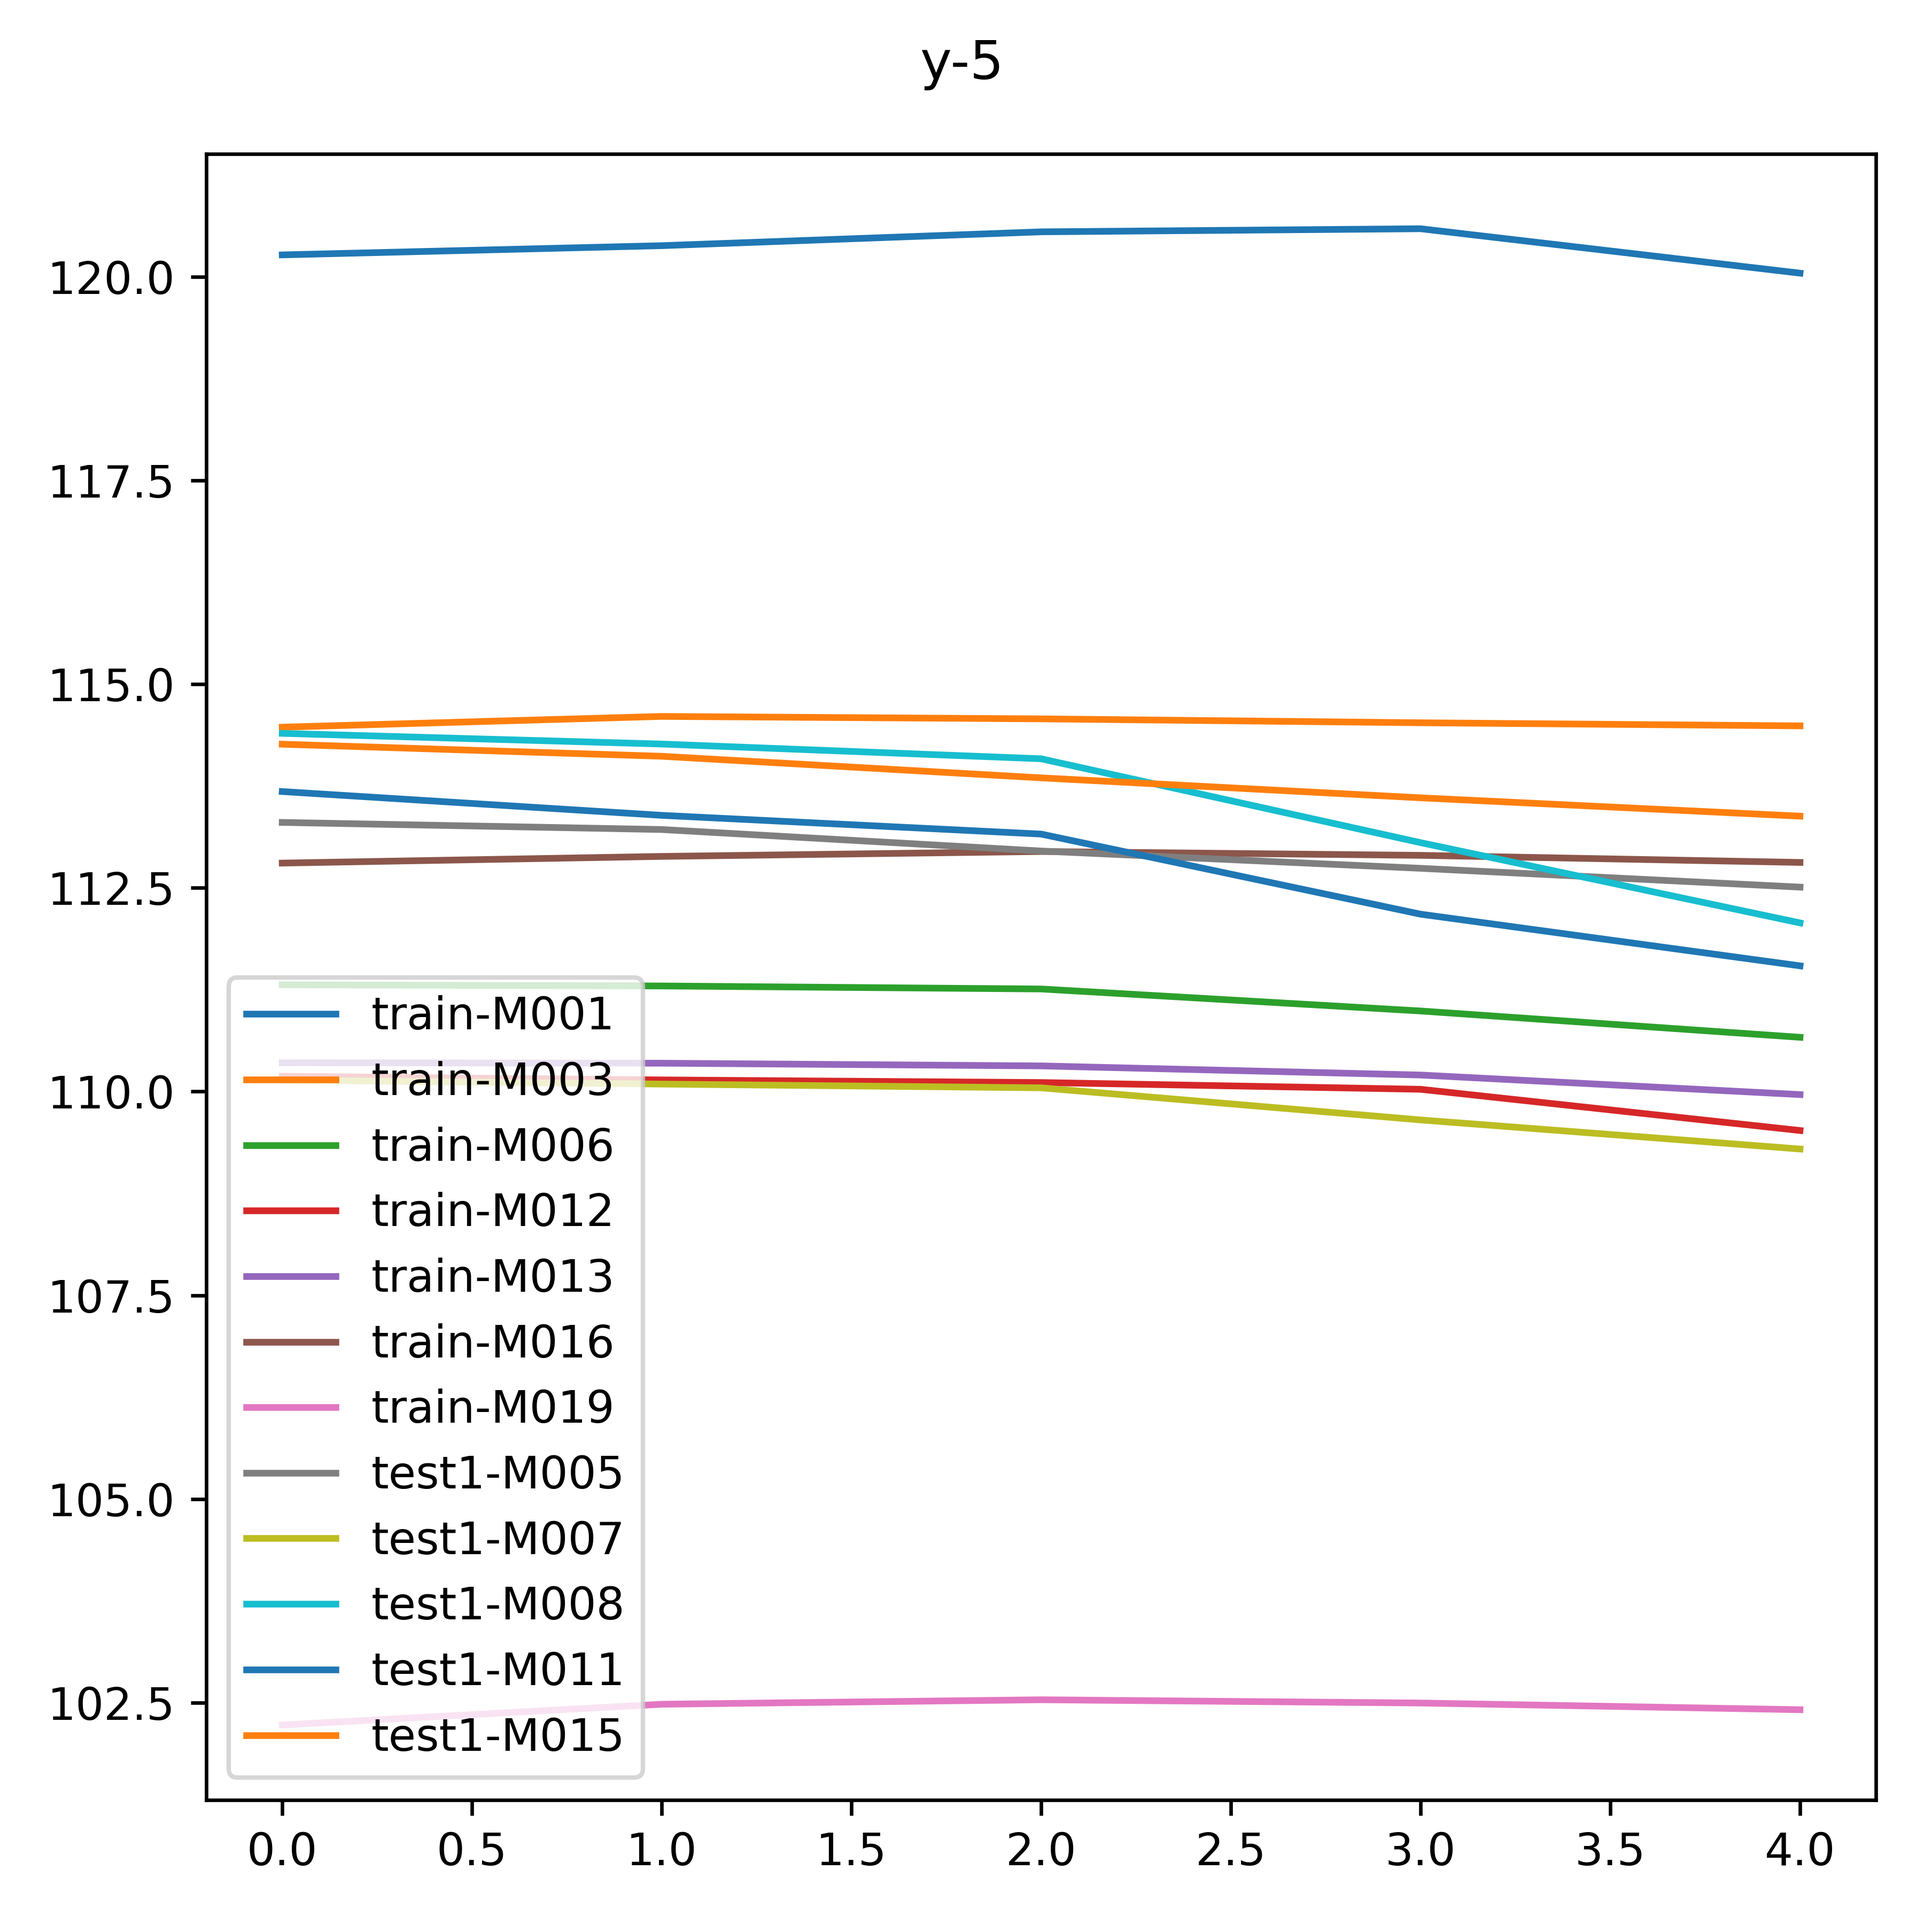
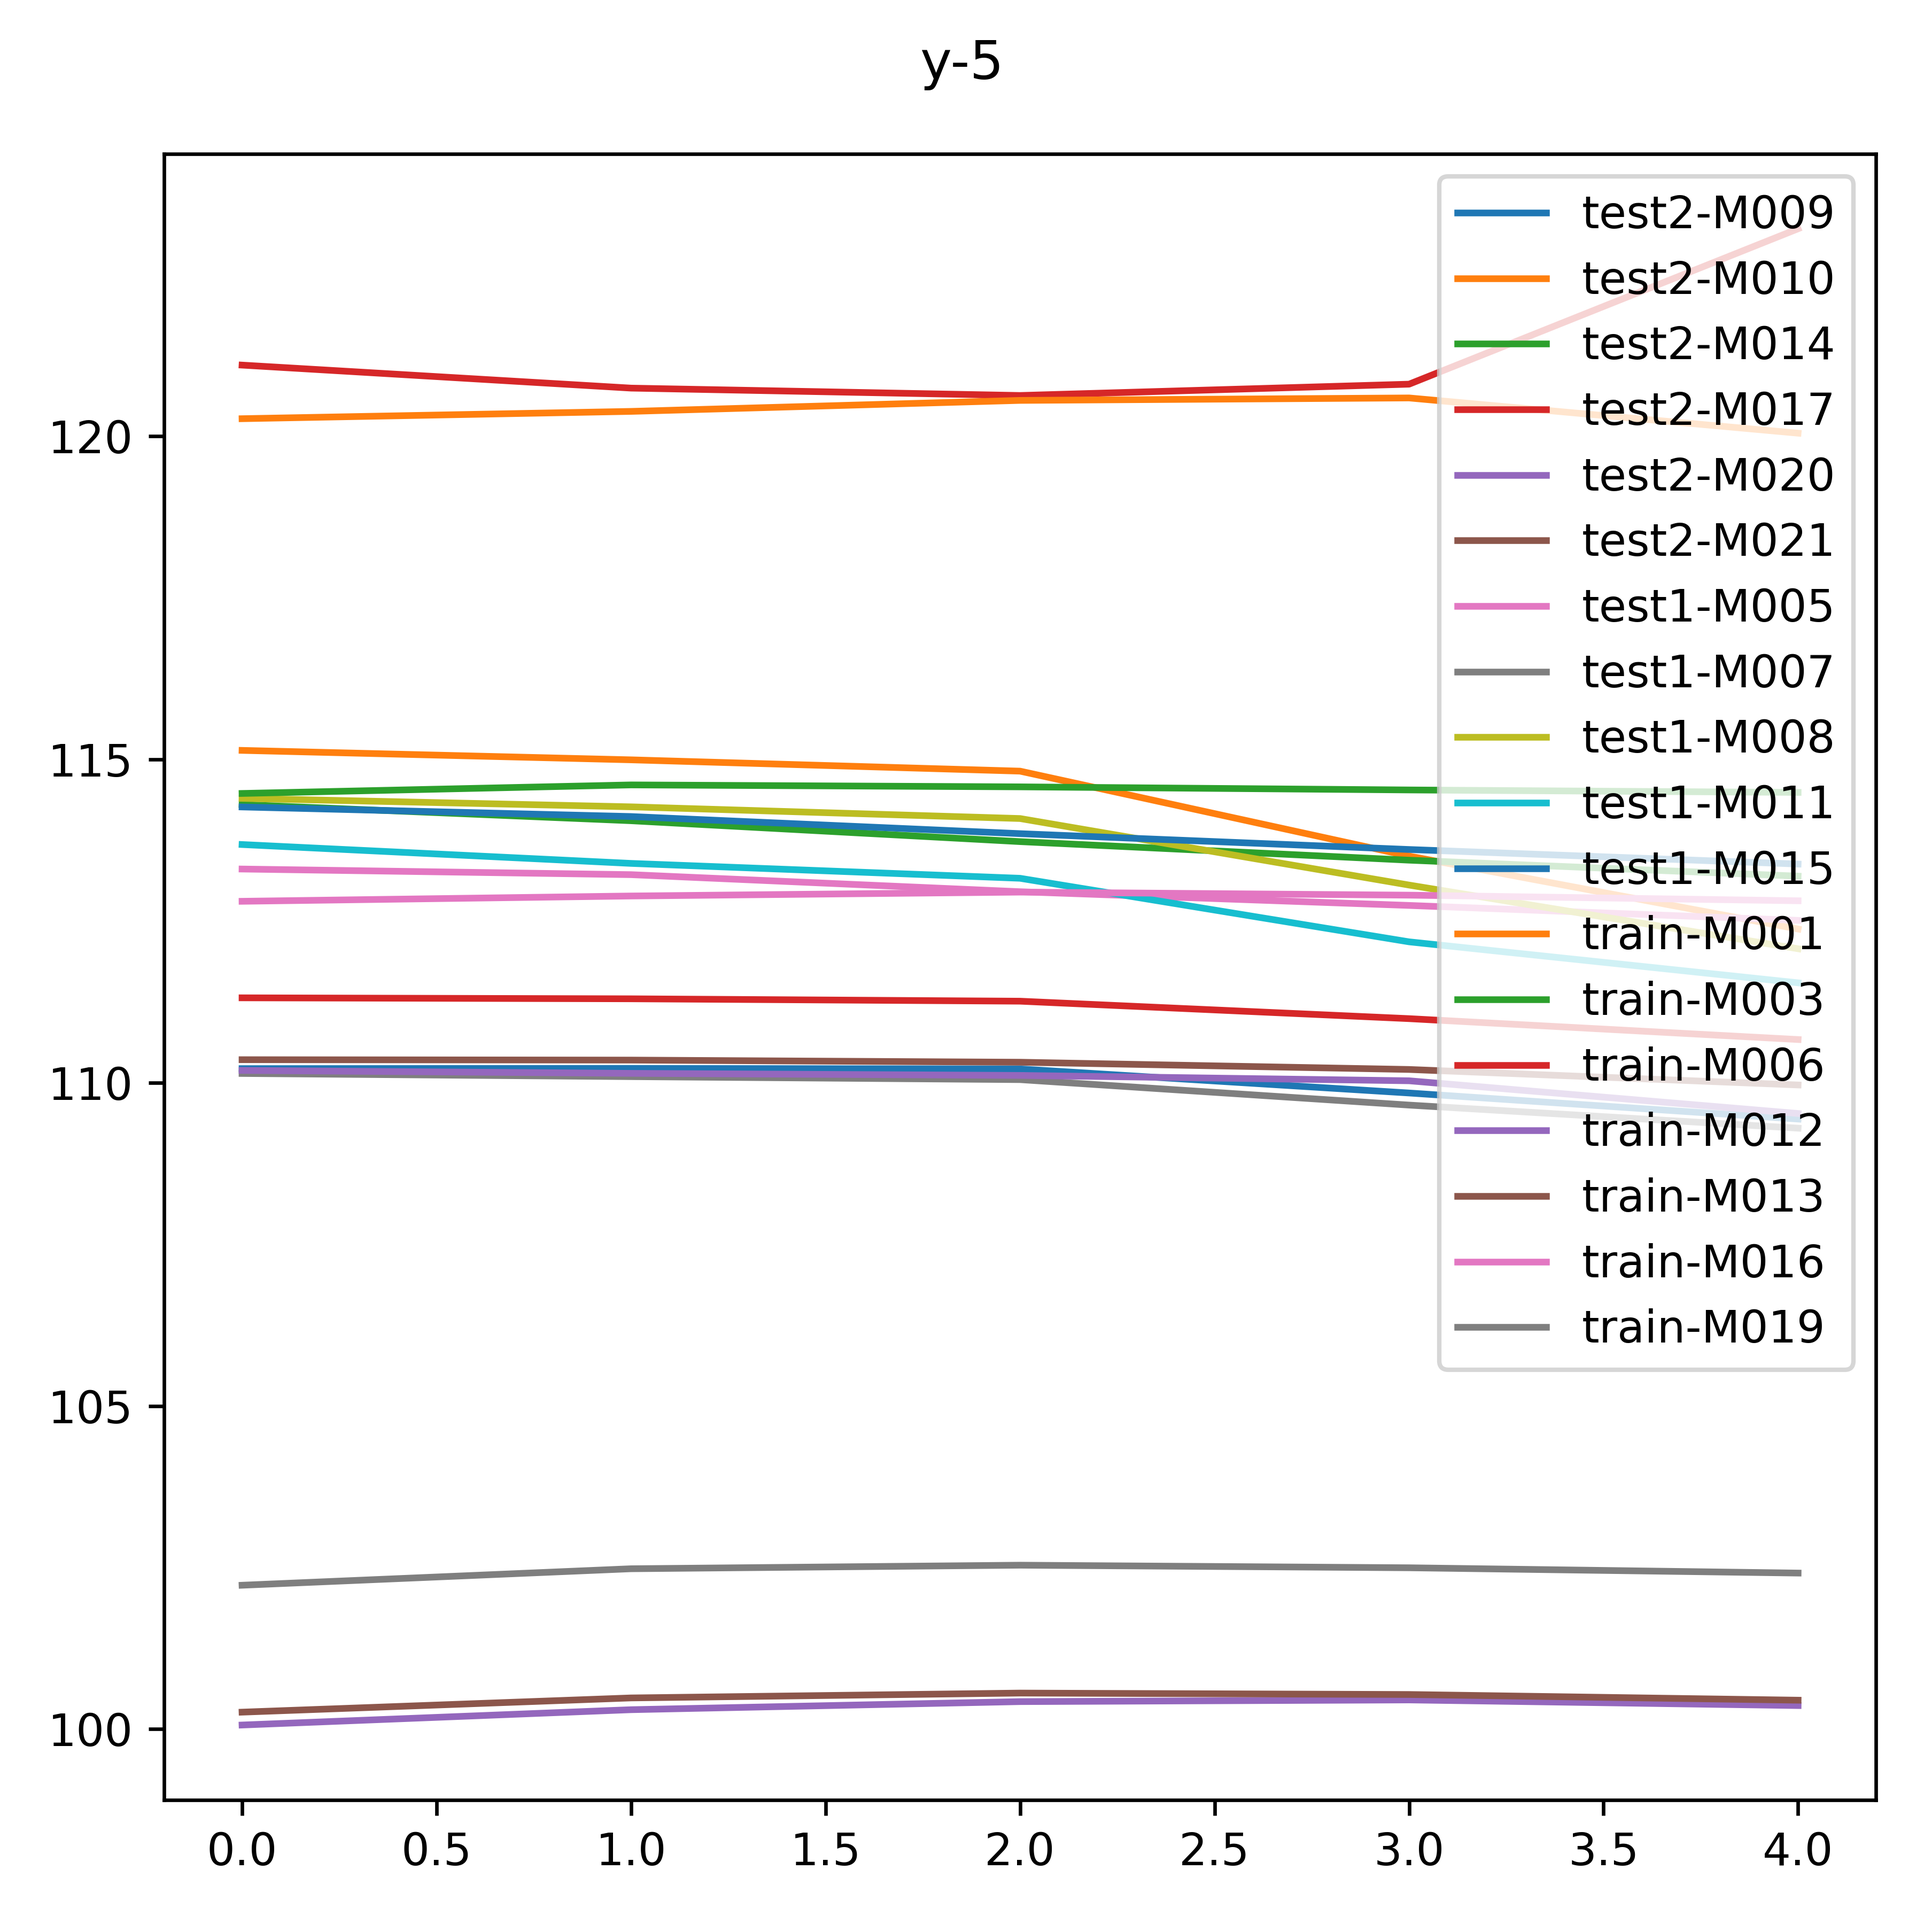
add dataset test2

diff --git a/mk_data.py b/mk_data.py
@@ -2,17 +2,19 @@
 # Author: Armit
 # Create Time: 2024/02/14
 
-from zipfile import ZipFile
+from zipfile import ZipFile, ZipInfo
 from datetime import datetime, time
 
 from openpyxl import open as XlsxFile, Workbook
+from openpyxl.worksheet.worksheet import Worksheet
+from openpyxl.utils.dataframe import dataframe_to_rows
 
 from utils import *
 
 DATA_FILES = {
   'train.zip': 'train',
   'test1.zip': 'test',
-  'test2.zip': 'test',
+  #'test2.zip': 'test',
 }
 
 
@@ -161,6 +163,48 @@ def process_cache():
         print_exc()
 
 
+def process_cache_test2():
+  fn = 'test2.zip'
+  fp_in = DATA_PATH / fn
+  if not fp_in.exists(): return
+  dp_out = fp_in.with_suffix('')
+  dp_out.mkdir(exist_ok=True)
+
+  print(f'>> processing split {fn}...')
+  zf = ZipFile(fp_in, metadata_encoding='GBK')
+  zinfos = zf.infolist()
+  zfs: Dict[str, ZipInfo] = {Path(z.filename).name: z for z in zinfos}
+  ids = sorted({name.split('_')[0] for name in zfs})    # NOTE: 保持有序！
+  for id in tqdm(ids):
+    print(f'>> processing sample {id}...')
+    fp_out: Path = (dp_out / id).with_suffix('.pkl')
+    if fp_out.exists(): continue
+
+    wb = Workbook()
+    for sheet_name in ['工步数据', '循环数据', '详细数据']:
+      zinfo = zfs[f'{id}_{sheet_name}.csv']
+      with zf.open(zinfo) as fh:
+        sheet: Worksheet = wb.create_sheet(sheet_name)
+        df = pd.read_csv(fh)
+        for row in dataframe_to_rows(df, index=False, header=True):
+          sheet.append(row)
+    wb.remove(wb.worksheets[0])  # remove the default sheet
+
+    try:
+      df_cycle, df_action = process_xlsx(wb)
+      print(df_cycle)
+      print(df_action)
+      data = df_cycle, df_action
+      with open(fp_out, 'wb') as fh:
+        pkl.dump(data, fh)
+    except KeyboardInterrupt:
+      exit(-1)
+    except:
+      print_exc()
+
+
 if __name__ == '__main__':
   print('[process_cache]')
   process_cache()
+  print('[process_cache_test2]')
+  process_cache_test2()

diff --git a/mk_submit.py b/mk_submit.py
@@ -7,11 +7,19 @@ from argparse import ArgumentParser
 from utils import *
 
 EXPACTED_LENTH = {
+  # test1
   'M005': 1646,
   'M007': 431,
   'M008': 585,
   'M011': 592,
   'M015': 221,
+  # test2
+  'M009': 868,
+  'M010': 586,
+  'M014': 213,
+  'M017': 2016,
+  'M020': 3433,
+  'M021': 855,
 }
 
 
@@ -41,7 +49,7 @@ def run(args):
 if __name__ == '__main__':
   parser = ArgumentParser()
   args = parser.add_argument('-M', '--model', default='linear')
-  args = parser.add_argument('-D', '--split', default='test1')
+  args = parser.add_argument('-D', '--split', default='test2')
   args = parser.parse_args()
 
   run(args)

diff --git a/utils.py b/utils.py
@@ -23,6 +23,14 @@ LOG_PATH = BASE_PATH / 'log' ; LOG_PATH.mkdir(exist_ok=True)
 SUBMIT_PATH = LOG_PATH / 'submit.csv'
 
 DATA_FILES = {
+  'test2': [
+    'M009',
+    'M010',
+    'M014',
+    'M017',
+    'M020',
+    'M021',
+  ],
   'test1': [
     'M005',
     'M007',

diff --git a/img/NOTE.md b/img/NOTE.md
@@ -2,20 +2,28 @@
 
 ```
 [train]
-M001.png  120.268 (1) -> 120.044 (5) -> ? -> 114.219 (905) -> 1.1 (906)
-M003.png  114.472 (1) -> 114.488 (5) -> ? -> 103.307 (1247)
-M006.png  111.311 (1) -> 110.666 (5) -> ? ->  93.017 (2636)
-M012.png  110.188 (1) -> 109.522 (5) -> ? ->  94.012 (2185)
-M013.png  110.354 (1) -> 109.963 (5) -> ? ->  93.846 (2188)
-M016.png  112.804 (1) -> 112.812 (5) -> ? -> 102.206 (609)
-M019.png  102.226 (1) -> 102.414 (5) -> ? ->  84.659 (3402)
+M001  120.268 (1) -> 120.044 (5) -> ? -> 114.219 (905) -> 1.1 (906)
+M003  114.472 (1) -> 114.488 (5) -> ? -> 103.307 (1247)
+M006  111.311 (1) -> 110.666 (5) -> ? ->  93.017 (2636)
+M012  110.188 (1) -> 109.522 (5) -> ? ->  94.012 (2185)
+M013  110.354 (1) -> 109.963 (5) -> ? ->  93.846 (2188)
+M016  112.804 (1) -> 112.812 (5) -> ? -> 102.206 (609)
+M019  102.226 (1) -> 102.414 (5) -> ? ->  84.659 (3402)
 
 [test1]
-M005.png  113.303 (1) -> 112.510 (5) -> ? (1646)
-M007.png  110.141 (1) -> 109.295 (5) -> ? -> 102.106 (345) ->  97.942 (431) -> ? (431)
-M008.png  114.396 (1) -> 112.070 (5) -> ? -> 103.736 (469) -> 103.060 (585) -> ? (585)
-M011.png  113.682 (1) -> 111.543 (5) -> ? (592)
-M015.png  114.263 (1) -> 113.380 (5) -> ? (221)
+M005  113.303 (1) -> 112.510 (5) -> ? (1646)
+M007  110.141 (1) -> 109.295 (5) -> ? -> 102.106 (345) ->  97.942 (431) -> ? (431)
+M008  114.396 (1) -> 112.070 (5) -> ? -> 103.736 (469) -> 103.060 (585) -> ? (585)
+M011  113.682 (1) -> 111.543 (5) -> ? (592)
+M015  114.263 (1) -> 113.380 (5) -> ? (221)
+
+[test2]
+M009  110.216 (1) -> 109.436 (5) -> ? (868)
+M010  115.138 (1) -> 112.375 (5) -> ? (586)
+M014  114.300 (1) -> 113.193 (5) -> ? (213)
+M017  121.097 (1) -> 123.206 (5) -> ? (2016)
+M020  100.064 (1) -> 100.365 (5) -> ? (3433)
+M021  100.263 (1) -> 100.448 (5) -> ? (855)
 ```
 
 ### observations
@@ -28,11 +36,19 @@ M006, M012, M013, M016, M019 呈负指数衰减
   - M012, M013, M006, M019 曲线包络非常相似，仅相差常数
   - M016 末尾衰减增大，噪声增大
 
-[test]
-test-M007 衰减得很快，末尾真值和操作时间噪声大
-test-M008 中后期似与 train-M006 一致，仅相差常数
-test-M011 开头与 test-M008 相似
-test-M015 末尾操作时间噪声大
+[test1]
+M007 衰减得很快，末尾真值和操作时间噪声大
+M008 中后期似与 train-M006 一致，仅相差常数
+M011 开头与 test-M008 相似
+M015 末尾操作时间噪声大
+
+[test2]
+M009 分三段：近线性、近对数类test1-M008/train-M019、震荡
+M010 近 test1-M008 (非常接近)
+M014 近 test1-M015/M007 (疑似非常接近)
+M017 近 train-M019/M003
+M020 近 train-M019 (非常接近)
+M021 近 train-M016 (非常接近)
 ```
 
 ### insights from Linear Regression 

diff --git a/README.md b/README.md
@@ -5,23 +5,15 @@
 ----
 
 Contest page: [https://www.industrial-bigdata.com/Challenge/title?competitionId=KNJDCW2HR45R8LCU6ZSUVCJRC5SJ3H1P&type=](https://www.industrial-bigdata.com/Challenge/title?competitionId=KNJDCW2HR45R8LCU6ZSUVCJRC5SJ3H1P&type=)  
+Problem provider：东方电气  
 Team Name: 帕鲁发电站  
 
 
 ### Quickstart
 
-⚪ install
-
 - `pip install -r requirements.txt`
+- `python linear.py`
 
-⚪ run
-
-- ???
-
-
-#### refenrence
-
-- ???
 
 ----
 by Armit
